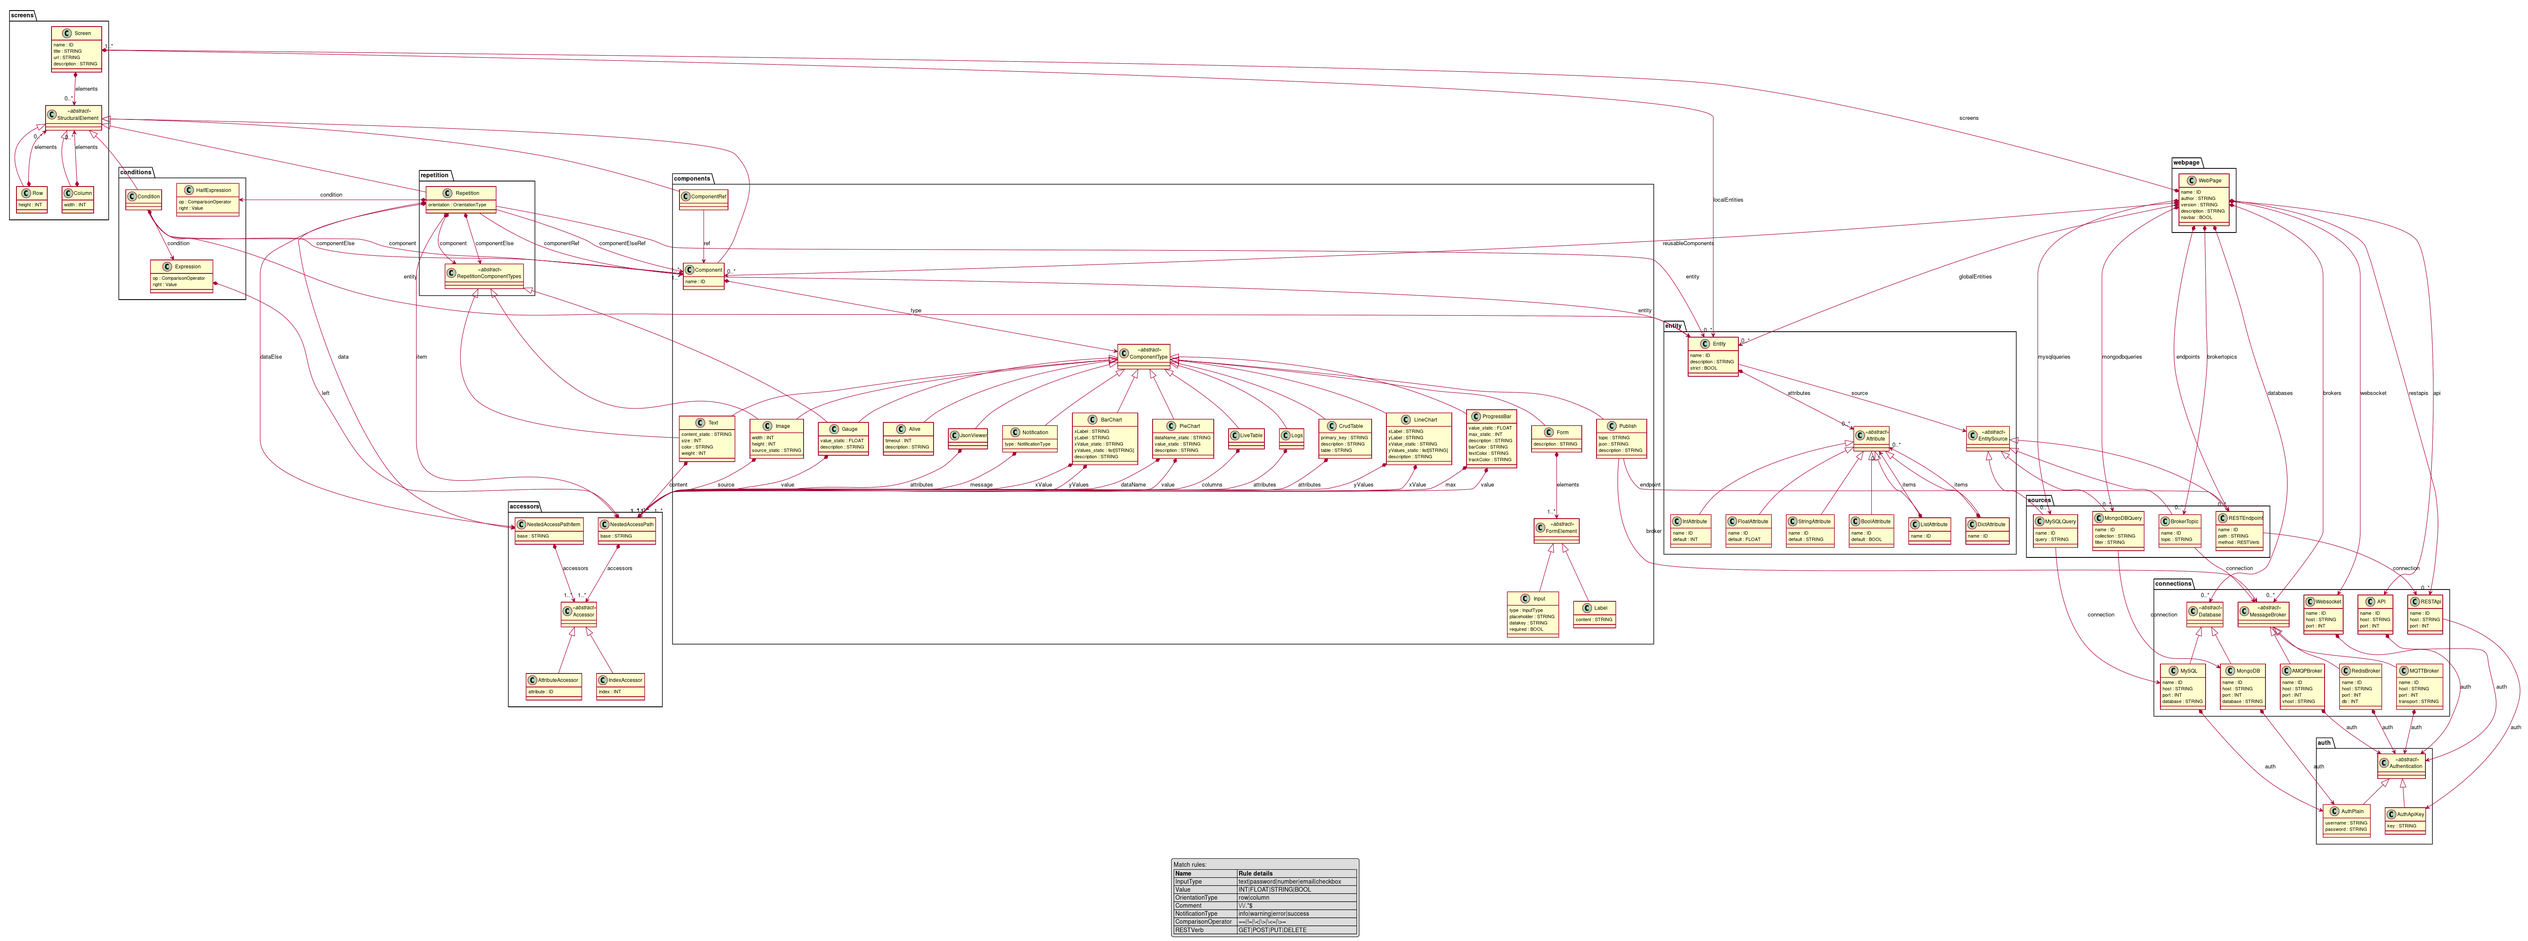
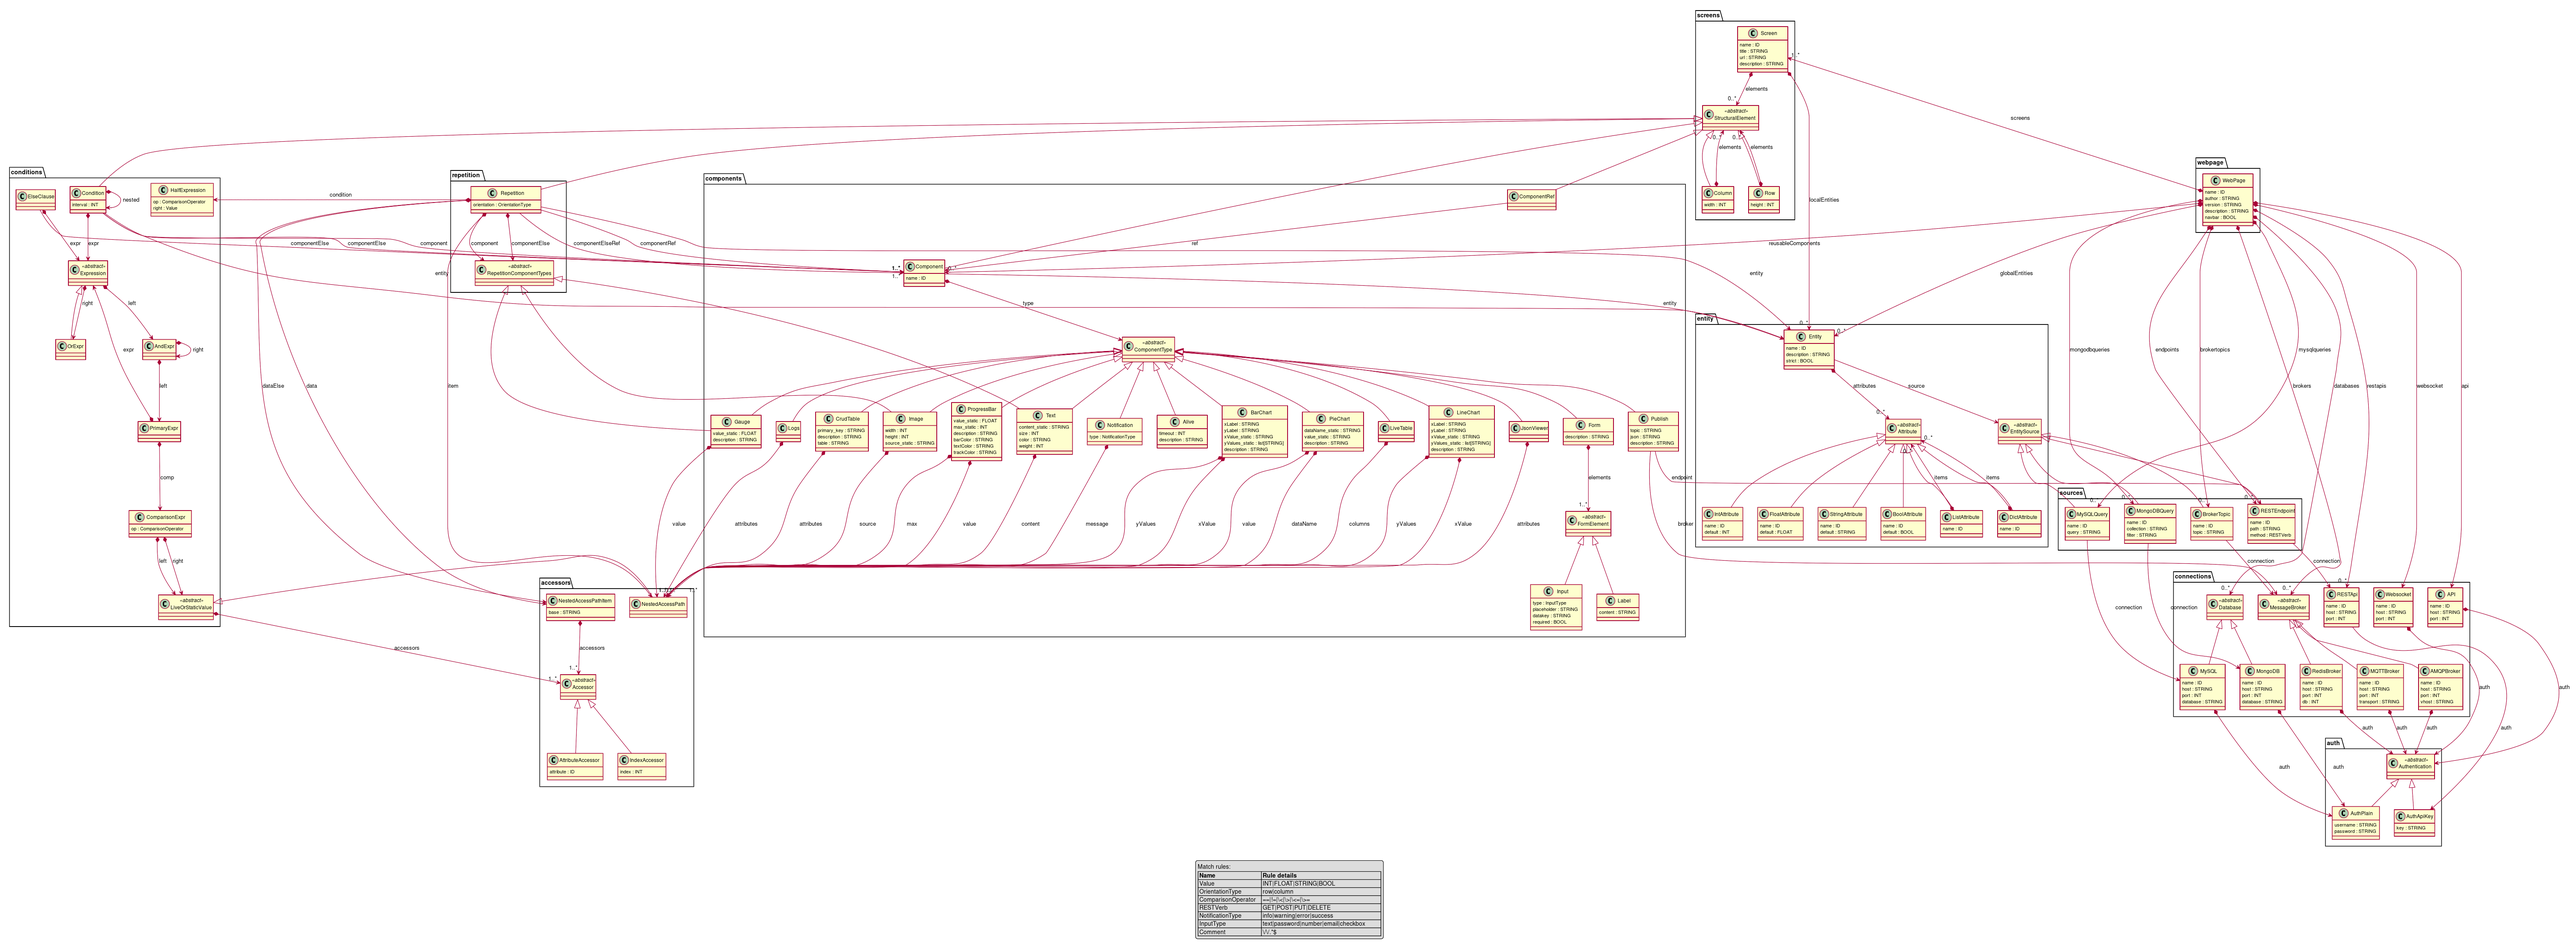
Else supports conditions

diff --git a/web_dsl/lib/condition.py b/web_dsl/lib/condition.py
@@ -7,13 +7,20 @@ class Condition:
         component=None,
         componentElse=None,
         interval=None,
+        nested=None,
     ):
         self.parent = parent
         self.entity = entity
         self.condition = self.format_condition(expr)
-        print(f"Condition: {self.condition}")
         self.component = component
-        self.componentElse = componentElse
+
+        if len(componentElse) > 0:
+            self.componentElse = componentElse
+        elif nested is not None:
+            self.componentElse = [
+                nested
+            ]  # ARRAY BECAUSE THE COMPOENENT ELSE IS A LIST of components
+
         self.interval = interval
 
         try:
